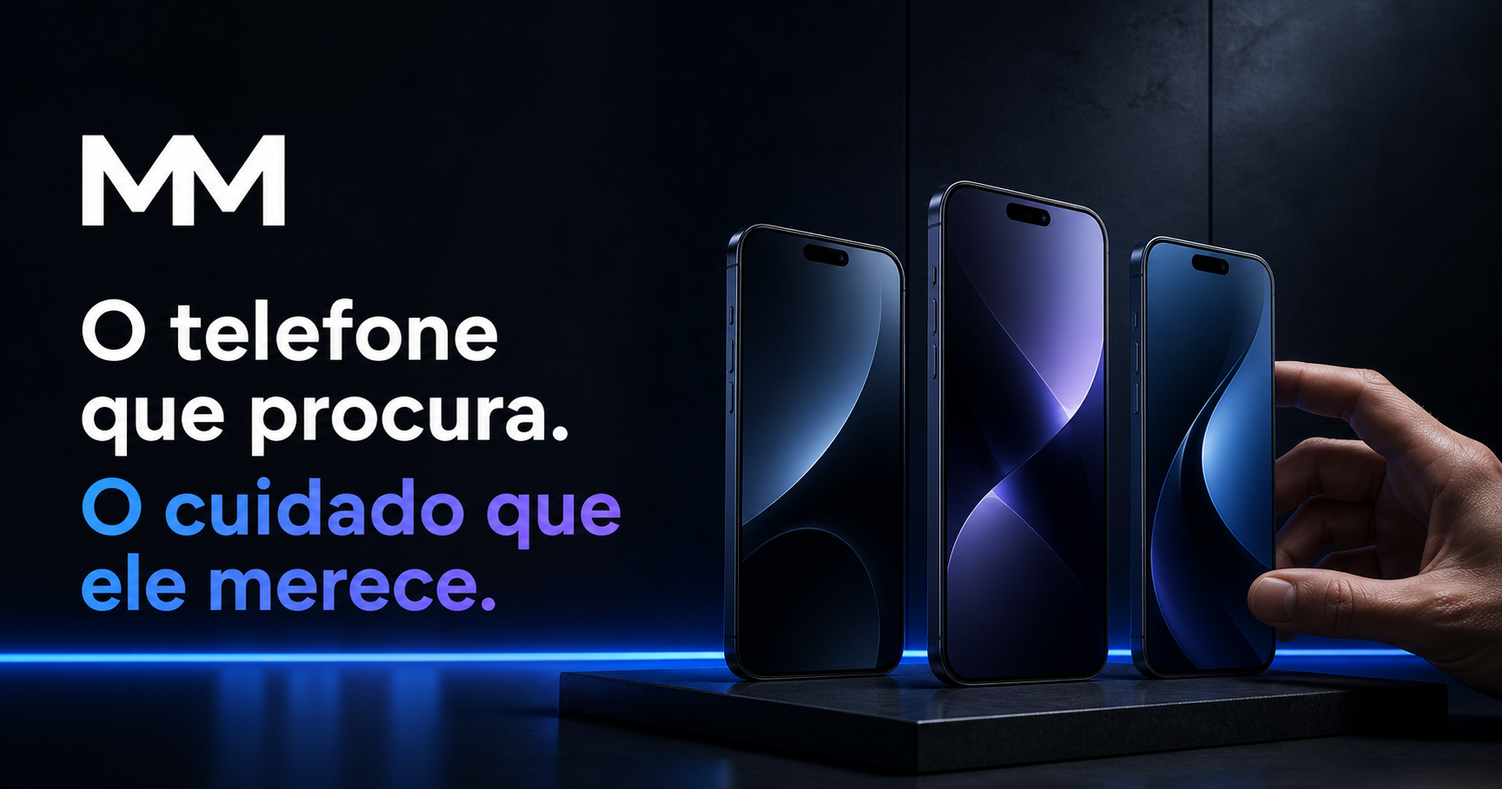
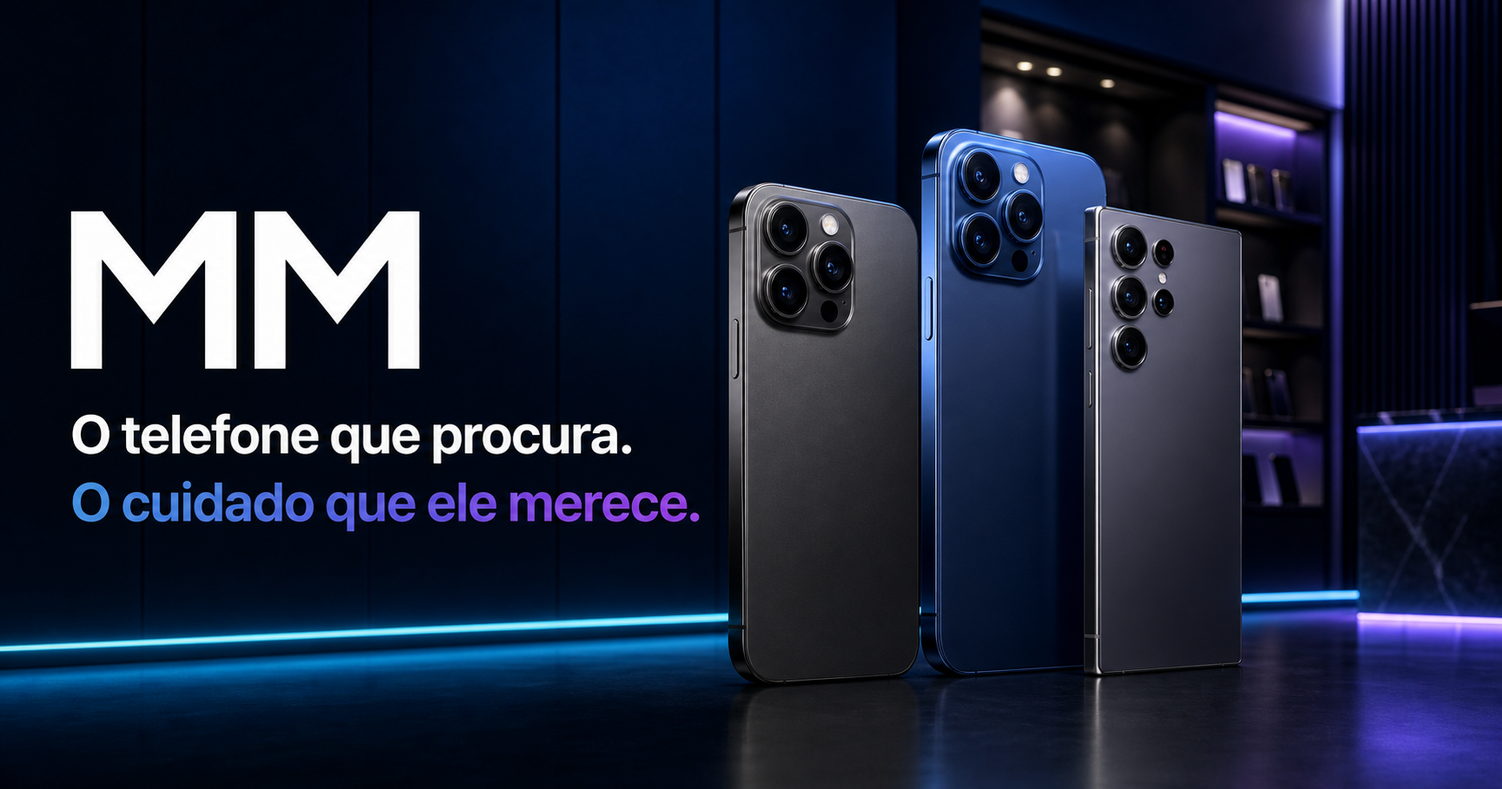
Match MM home to approved storefront reference

diff --git a/app/page.tsx b/app/page.tsx
@@ -4,101 +4,63 @@ import Link from "next/link";
 import { T, useLanguage } from "../components/LanguageProvider";
 import { phones, whatsappUrl } from "../lib/phones";
 
-const repairProblems = [
-  ["Ecrã partido", "Broken screen"],
-  ["Bateria descarrega rápido", "Battery drains quickly"],
-  ["Telefone não carrega", "Phone does not charge"],
-  ["Telefone não liga", "Phone does not turn on"],
-  ["Problemas de software", "Software issues"],
-  ["Câmara ou som", "Camera or sound"],
-  ["Outro problema", "Other issue"],
+const issues = [
+  ["▱", "Ecrã partido", "Broken screen"], ["▣", "Bateria descarrega rápido", "Battery drains quickly"],
+  ["ϟ", "Telefone não carrega", "Phone does not charge"], ["◌", "Telefone não liga", "Phone does not turn on"],
+  ["⌘", "Problemas de software", "Software issues"], ["◉", "Câmara ou som", "Camera or sound"],
+  ["•••", "Outro problema", "Other issue"],
 ];
 
-const trustReasons = [
-  ["♡", "Atendimento sem complicação", "Falamos consigo de forma clara e procuramos tornar todo o processo simples.", "Straightforward service", "We speak clearly and aim to make the whole process simple."],
-  ["◇", "Escolha com confiança", "Veja as opções disponíveis e tire dúvidas antes de decidir.", "Choose with confidence", "See the available options and ask questions before deciding."],
-  ["⌕", "Cuidado com o seu aparelho", "Primeiro entendemos o problema antes de indicar o próximo passo.", "Care for your device", "We first understand the problem before suggesting the next step."],
-  ["✆", "Estamos a uma mensagem de distância", "Fale directamente com a MM pelo WhatsApp.", "One message away", "Talk directly to MM on WhatsApp."],
+const trust = [
+  ["◯", "Atendimento sem complicação", "Falamos consigo de forma clara e procuramos tornar tudo simples.", "Straightforward service", "We speak clearly and aim to keep everything simple."],
+  ["⌕", "Avaliação antes do serviço", "Entendemos o problema antes de indicar o próximo passo.", "Assessment before service", "We understand the issue before suggesting the next step."],
+  ["◇", "Escolha com confiança", "Veja as opções disponíveis e tire dúvidas antes de decidir.", "Choose with confidence", "See available options and ask before deciding."],
+  ["✆", "Contacto directo", "Fale directamente com a MM pelo WhatsApp.", "Direct contact", "Talk directly to MM on WhatsApp."],
 ];
 
 export default function Home() {
   const { lang } = useLanguage();
   const featured = phones.slice(0, 4);
-  const heroPhone = phones[0];
-  const generalMessage = lang === "pt"
-    ? "Olá MM, encontrei-vos através do website e gostaria de obter mais informações."
-    : "Hello MM, I found you through the website and would like more information.";
 
-  return <>
-    <section className="storeHero">
-      <div className="heroBlob one"/><div className="heroBlob two"/>
-      <div className="wide storeHeroGrid">
-        <div className="storeHeroCopy">
-          <span className="shopBadge"><T pt="TECNOLOGIA MAIS PERTO DE SI" en="TECHNOLOGY CLOSER TO YOU" /></span>
-          <h1><T pt={<>O telefone que procura.<br/><em>O cuidado que ele merece.</em></>} en={<>The phone you want.<br/><em>The care it deserves.</em></>} /></h1>
-          <p><T pt="Na MM encontra telefones para diferentes necessidades e assistência para quando o seu aparelho precisar de cuidado." en="At MM you will find phones for different needs and assistance whenever your device needs care." /></p>
-          <div className="actionRow">
-            <Link className="btn blue" href="/telefones"><T pt="Quero comprar um telefone" en="I want to buy a phone" /> <span>→</span></Link>
-            <Link className="btn soft" href="/reparacao"><T pt="Preciso reparar o meu telefone" en="I need to repair my phone" /></Link>
-          </div>
-          <div className="heroAssurance"><span>✓ <T pt="Atendimento próximo" en="Personal service" /></span><span>✓ Bela Vista, Angola</span></div>
+  return <div className="referenceHome">
+    <section className="referenceHero"><div className="wide referenceHeroGrid">
+      <div className="referenceHeroCopy">
+        <span className="referenceBadge"><T pt="TECNOLOGIA MAIS PERTO DE SI" en="TECHNOLOGY CLOSER TO YOU" /></span>
+        <h1><T pt={<>O telefone que procura.<br/><em>O cuidado que ele merece.</em></>} en={<>The phone you want.<br/><em>The care it deserves.</em></>} /></h1>
+        <p><T pt={<>Venda e reparação de telefones<br/><strong>num só lugar.</strong></>} en={<>Phone sales and repair<br/><strong>in one place.</strong></>} /></p>
+        <div className="referenceProof">
+          <span><i>♡</i><b><T pt="Atendimento próximo" en="Personal service" /></b><small><T pt="Sempre ao seu lado." en="Always by your side." /></small></span>
+          <span><i>⌕</i><b><T pt="Avaliação cuidadosa" en="Careful assessment" /></b><small><T pt="Primeiro entendemos." en="We understand first." /></small></span>
+          <span><i>⌖</i><b>Bela Vista, Angola</b><small><T pt="Em frente à Pumangol." en="Opposite Pumangol." /></small></span>
         </div>
-        <div className="showcase">
-          <div className="showcaseGlow"/>
-          <div className="showPhone phoneBack"><img src={phones[1].image} alt={phones[1].model}/></div>
-          <div className="showPhone phoneMain"><img src={heroPhone.image} alt={heroPhone.model}/><span className="newTag"><T pt="EM DESTAQUE" en="FEATURED" /></span></div>
-          <div className="showPhone phoneSide"><img src={phones[2].image} alt={phones[2].model}/></div>
-          <div className="showPrice heroProductCard">
-            <small><T pt="MODELO EM DESTAQUE" en="FEATURED MODEL" /></small>
-            <b>{heroPhone.model}</b>
-            <Link href={`/telefones/${heroPhone.slug}`} aria-label={lang === "pt" ? `Consultar disponibilidade do ${heroPhone.model}` : `Check ${heroPhone.model} availability`}>
-              <span><T pt="Consultar disponibilidade" en="Check availability" /></span> ↗
-            </Link>
-          </div>
-          <div className="heroServiceRail">
-            <Link href="/telefones"><small><T pt="VENDA DE TELEFONES" en="PHONE SALES" /></small><b><T pt="Encontre o telefone certo para si." en="Find the right phone for you." /></b><span><T pt="Ver telefones" en="View phones" /> →</span></Link>
-            <Link href="/reparacao"><small><T pt="REPARAÇÃO" en="REPAIR" /></small><b><T pt="Conte-nos o que aconteceu." en="Tell us what happened." /></b><span><T pt="Pedir assistência" en="Request assistance" /> →</span></Link>
-          </div>
-        </div>
+        <div className="referenceActions"><Link href="/telefones"><T pt="Quero comprar um telefone" en="I want to buy a phone" /> →</Link><Link href="/reparacao"><T pt="Preciso reparar o meu telefone" en="I need to repair my phone" /> →</Link></div>
       </div>
-    </section>
 
-    <section className="helpToday"><div className="wide">
-      <div className="helpHeading"><span className="sectionLabel">MM</span><h2><T pt="Como podemos ajudar hoje?" en="How can we help today?" /></h2></div>
-      <div className="helpPaths">
-        <article className="buyPath"><div><small><T pt="QUERO UM TELEFONE" en="I WANT A PHONE" /></small><h3><T pt="O seu próximo telefone pode estar mais perto do que imagina." en="Your next phone may be closer than you think." /></h3><p><T pt="Descubra modelos para diferentes estilos, necessidades e orçamentos." en="Discover models for different styles, needs and budgets." /></p><Link href="/telefones"><T pt="Ver telefones" en="View phones" /> →</Link></div><img src={heroPhone.image} alt=""/></article>
-        <article className="repairPath"><div><small><T pt="PRECISO DE REPARAÇÃO" en="I NEED A REPAIR" /></small><h3><T pt="Quebrou? Fale connosco antes de desistir do seu telefone." en="Broken? Talk to us before giving up on your phone." /></h3><p><T pt="Conte-nos o que aconteceu. A MM ajuda a encontrar a melhor solução." en="Tell us what happened. MM helps you find the best solution." /></p><Link href="/reparacao"><T pt="Pedir assistência" en="Request assistance" /> →</Link></div><img src="https://images.unsplash.com/photo-1621768216002-5ac171876625?auto=format&fit=crop&w=900&q=90" alt=""/></article>
+      <div className="referencePhones" aria-label={lang === "pt" ? "Telefones em destaque" : "Featured phones"}>
+        <div className="referenceBeam"/>
+        {phones.slice(0, 3).map((phone, index) => <Link href={`/telefones/${phone.slug}`} className={`referencePhone p${index + 1}`} key={phone.slug}><img src={phone.image} alt={phone.model}/></Link>)}
       </div>
+
+      <aside className="referenceSideCards">
+        <Link href="/telefones"><div><small><T pt="Venda de telefones" en="Phone sales" /></small><p><T pt="Modelos para diferentes necessidades e orçamentos." en="Models for different needs and budgets." /></p><span><T pt="Ver telefones" en="View phones" /> →</span></div><img src={phones[0].image} alt=""/></Link>
+        <Link href="/reparacao"><div><small><T pt="Reparação de telefones" en="Phone repair" /></small><p><T pt="Conte-nos o que aconteceu ao seu aparelho." en="Tell us what happened to your device." /></p><span><T pt="Saber mais" en="Learn more" /> →</span></div><img src="https://images.unsplash.com/photo-1621768216002-5ac171876625?auto=format&fit=crop&w=700&q=85" alt=""/></Link>
+        <a href={whatsappUrl(lang === "pt" ? "Olá MM, encontrei-vos através do website e gostaria de obter mais informações." : "Hello MM, I found you through the website and would like more information.")}><div><small>WhatsApp</small><p><T pt="Fale directamente com a equipa da MM." en="Talk directly to the MM team." /></p><span><T pt="Enviar mensagem" en="Send a message" /> →</span></div><b>✆</b></a>
+      </aside>
     </div></section>
 
-    <section className="quickShop"><div className="wide">
-      <div className="quickTitle"><b><T pt="Explore por marca" en="Explore by brand" /></b><Link href="/telefones"><T pt="Ver catálogo completo" en="View full catalogue" /> →</Link></div>
-      <div className="categoryGrid brandOnly">{[
-        ["Apple", "A", "Ver iPhones", "View iPhones"], ["Samsung", "S", "Ver Galaxy", "View Galaxy"], ["Tecno", "T", "Ver modelos", "View models"], ["Infinix", "I", "Ver modelos", "View models"], ["Outros", "+", "Explorar", "Explore"],
-      ].map(([name, icon, ptAction, enAction]) => <Link href={`/telefones?marca=${name}`} key={name}><span>{icon}</span><b>{name === "Outros" ? (lang === "pt" ? "Outras marcas" : "Other brands") : name}</b><small>{lang === "pt" ? ptAction : enAction} →</small></Link>)}</div>
-    </div></section>
+    <div className="wide referenceDashboard">
+      <section className="referenceChoices">
+        <Link href="/telefones"><i>♧</i><div><small><T pt="QUERO UM TELEFONE" en="I WANT A PHONE" /></small><h2><T pt="O seu próximo telefone pode estar mais perto do que imagina." en="Your next phone may be closer than you think." /></h2><p><T pt="Descubra modelos para diferentes estilos, necessidades e orçamentos." en="Discover models for different styles, needs and budgets." /></p><span><T pt="Ver telefones" en="View phones" /> →</span></div><img src={phones[2].image} alt=""/></Link>
+        <Link href="/reparacao"><i>⌁</i><div><small><T pt="PRECISO DE REPARAÇÃO" en="I NEED A REPAIR" /></small><h2><T pt="Quebrou? Fale connosco antes de desistir do seu telefone." en="Broken? Talk to us before giving up on your phone." /></h2><p><T pt="Conte-nos o que aconteceu. A MM ajuda a identificar o próximo passo." en="Tell us what happened. MM helps identify the next step." /></p><span><T pt="Pedir assistência" en="Request assistance" /> →</span></div></Link>
+      </section>
 
-    <section className="featuredStore"><div className="wide">
-      <div className="shopSectionHead"><div><span><T pt="SELECÇÃO DA MM" en="MM SELECTION" /></span><h2><T pt="Telefones em destaque" en="Featured phones" /></h2><p><T pt="Veja alguns dos modelos apresentados pela MM." en="See some of the models presented by MM." /></p></div><Link href="/telefones"><T pt="Ver todos os telefones" en="View all phones" /> →</Link></div>
-      <div className="storeProductGrid">{featured.map((phone) => <article className="storeProduct" key={phone.slug}>
-        <Link className="storeProductImage" href={`/telefones/${phone.slug}`}><span>{phone.available ? (lang === "pt" ? "Consultar" : "Enquire") : (lang === "pt" ? "Sob consulta" : "Ask us")}</span><img src={phone.image} alt={phone.model}/></Link>
-        <div className="storeProductBody"><small>{phone.brand}</small><h3>{phone.model}</h3><div className="productMeta"><span>{phone.storage}</span><span>{phone.condition === "Novo" ? (lang === "pt" ? "Novo" : "New") : (lang === "pt" ? "Seminovo" : "Pre-owned")}</span></div><strong>{lang === "pt" ? phone.price : "Ask for price"}</strong><div className="storeActions"><Link href={`/telefones/${phone.slug}`}><T pt="Ver detalhes" en="View details" /></Link><a href={whatsappUrl(lang === "pt" ? `Olá MM, vi o ${phone.model} no website e gostaria de saber mais informações.` : `Hello MM, I saw the ${phone.model} on the website and would like more information.`)}>WhatsApp ↗</a></div></div>
-      </article>)}</div>
-    </div></section>
+      <section className="referenceBrands"><header><b><T pt="PROCURE POR MARCA" en="SHOP BY BRAND" /></b><Link href="/telefones"><T pt="Ver catálogo completo" en="View full catalogue" /> →</Link></header><div>{[["Apple","A","Ver iPhones","View iPhones"],["Samsung","S","Ver Galaxy","View Galaxy"],["Tecno","T","Ver modelos","View models"],["Infinix","I","Ver modelos","View models"],["Outros","•••","Explorar","Explore"]].map(([brand,icon,pt,en]) => <Link href={`/telefones?marca=${brand}`} key={brand}><strong>{icon}</strong><b>{brand === "Outros" ? (lang === "pt" ? "Mais marcas" : "More brands") : brand}</b><small>{lang === "pt" ? pt : en} →</small></Link>)}</div></section>
 
-    <section className="repairShop"><div className="wide repairShopGrid">
-      <div className="repairPhoto"><img src="https://images.unsplash.com/photo-1621768216002-5ac171876625?auto=format&fit=crop&w=1200&q=90" alt=""/><div className="repairPhotoBadge"><span>✓</span><div><small><T pt="PRIMEIRO PASSO" en="FIRST STEP" /></small><b><T pt="Compreender o problema" en="Understand the problem" /></b></div></div></div>
-      <div className="repairShopCopy"><span className="sectionLabel"><T pt="REPARAÇÃO DE TELEFONES" en="PHONE REPAIR" /></span><h2><T pt={<>Um problema no telefone não precisa<br/><em>parar o seu dia.</em></>} en={<>A phone problem does not have to<br/><em>stop your day.</em></>} /></h2><p><T pt="Conte-nos o que aconteceu e ajudamos a identificar o próximo passo." en="Tell us what happened and we will help identify the next step." /></p>
-        <div className="repairChips repairIssueLinks">{repairProblems.map(([pt, en]) => <Link key={pt} href={`/reparacao?problema=${encodeURIComponent(pt)}`}>{lang === "pt" ? pt : en} <span>→</span></Link>)}</div>
-        <Link className="btn blue" href="/reparacao"><T pt="Quero reparar o meu telefone" en="I want to repair my phone" /> →</Link>
-      </div>
-    </div></section>
+      <section className="referenceProducts"><header><div><small><T pt="TELEFONES EM DESTAQUE" en="FEATURED PHONES" /></small><h2><T pt="Modelos apresentados pela MM." en="Models presented by MM." /></h2></div><Link href="/telefones"><T pt="Ver todos os telefones" en="View all phones" /> →</Link></header><div>{featured.map((phone) => <article key={phone.slug}><Link href={`/telefones/${phone.slug}`} className="referenceProductImage"><span>{phone.condition === "Novo" ? (lang === "pt" ? "NOVO" : "NEW") : (lang === "pt" ? "SEMINOVO" : "PRE-OWNED")}</span><img src={phone.image} alt={phone.model}/></Link><div><small>{phone.brand}</small><h3>{phone.model}</h3><p>{phone.storage}</p><b>{lang === "pt" ? phone.price : "Ask for price"}</b><Link href={`/telefones/${phone.slug}`}><T pt="Ver detalhes" en="View details" /> →</Link></div></article>)}</div></section>
 
-    <section className="trustShop"><div className="wide">
-      <div className="shopSectionHead"><div><span>MM</span><h2><T pt="Por que escolher a MM?" en="Why choose MM?" /></h2></div></div>
-      <div className="trustCards detailedTrust">{trustReasons.map((reason) => <div key={reason[1]}><span>{reason[0]}</span><b>{lang === "pt" ? reason[1] : reason[3]}</b><p>{lang === "pt" ? reason[2] : reason[4]}</p></div>)}</div>
-    </div></section>
+      <section className="referenceRepair"><div><small><T pt="CUIDADO TÉCNICO" en="TECHNICAL CARE" /></small><h2><T pt={<>Um problema no telefone<br/><em>não precisa parar o seu dia.</em></>} en={<>A phone problem<br/><em>does not have to stop your day.</em></>} /></h2><p><T pt="Conte-nos o que aconteceu e ajudamos a identificar o próximo passo." en="Tell us what happened and we will help identify the next step." /></p><Link href="/reparacao"><T pt="Quero reparar o meu telefone" en="I want to repair my phone" /> →</Link></div><div className="referenceIssues">{issues.map(([icon,pt,en]) => <Link key={pt} href={`/reparacao?problema=${encodeURIComponent(pt)}`}><i>{icon}</i><span>{lang === "pt" ? pt : en}</span></Link>)}</div></section>
 
-    <section className="homeFinalCta"><div className="wide"><div><small>MM</small><h2><T pt="Ainda tem uma dúvida? Fale directamente com a MM." en="Still have a question? Talk directly to MM." /></h2><p><T pt="Estamos disponíveis para ajudar com telefones, disponibilidade e reparações." en="We are available to help with phones, availability and repairs." /></p></div><a className="btn blue" href={whatsappUrl(generalMessage)}><T pt="Falar no WhatsApp" en="Talk on WhatsApp" /> ↗</a></div></section>
-  </>;
+      <section className="referenceTrust">{trust.map((item) => <article key={item[1]}><i>{item[0]}</i><div><b>{lang === "pt" ? item[1] : item[3]}</b><p>{lang === "pt" ? item[2] : item[4]}</p></div></article>)}</section>
+    </div>
+  </div>;
 }

diff --git a/app/globals.css b/app/globals.css
@@ -29,3 +29,8 @@
 @media(max-width:1100px){.heroServiceRail{display:none}.phoneMain{left:48%}.phoneBack{left:25%}.phoneSide{right:3%}}
 @media(max-width:640px){.storeHero{min-height:auto}.storeHeroGrid{padding-bottom:20px}.storeHeroCopy h1{font-size:40px}.showcase{height:370px}.showPrice{left:auto;right:0}.helpToday{padding-top:24px}.repairShopGrid{padding:12px}.featuredStore .storeProductImage{height:300px}.homeFinalCta>.wide{padding:24px 18px}}
 .repairIssueLinks a>span{background:none;border:0;padding:0;color:#79a1ff}
+/* Faithful reference composition */
+.referenceHome{background:#04131f;color:#f7f9ff;min-height:100vh;padding-bottom:28px}.referenceHero{position:relative;overflow:hidden;background:radial-gradient(circle at 57% 46%,rgba(53,98,151,.4),transparent 30%),linear-gradient(110deg,#071724,#102638 60%,#071622);border-bottom:1px solid rgba(105,151,190,.28)}.referenceHero:before{content:"";position:absolute;inset:0;background-image:linear-gradient(rgba(124,160,193,.06) 1px,transparent 1px),linear-gradient(90deg,rgba(124,160,193,.055) 1px,transparent 1px);background-size:44px 44px;mask-image:linear-gradient(90deg,#000,transparent 75%)}.referenceHero:after{content:"";position:absolute;left:37%;right:18%;bottom:0;height:2px;background:linear-gradient(90deg,transparent,#2bd9ff,#5e57ff,transparent);box-shadow:0 0 25px #24c5ff}.referenceHeroGrid{height:440px;display:grid;grid-template-columns:38% 36% 26%;position:relative;z-index:1}.referenceHeroCopy{padding:26px 22px 22px 8px;display:flex;flex-direction:column;justify-content:center}.referenceBadge{align-self:flex-start;border:1px solid rgba(108,148,181,.42);border-radius:99px;padding:7px 12px;color:#6c9cff;font:700 7px var(--font-mono);letter-spacing:1.2px}.referenceHeroCopy h1{font-size:39px;line-height:1.08;letter-spacing:-.045em;margin:13px 0 10px}.referenceHeroCopy h1 em{font-style:normal;background:linear-gradient(90deg,#4a7dff,#a34ff0);background-clip:text;-webkit-background-clip:text;color:transparent}.referenceHeroCopy>p{font-size:13px;line-height:1.55;color:#d3dce5;margin:0}.referenceHeroCopy>p strong{font-weight:700;color:#6f94ff}.referenceProof{display:grid;grid-template-columns:repeat(3,1fr);margin:15px 0;gap:5px}.referenceProof>span{display:grid;grid-template-columns:31px 1fr;grid-template-rows:auto auto;border-right:1px solid rgba(120,154,182,.25);padding-right:6px}.referenceProof>span:last-child{border:0}.referenceProof i{grid-row:1/3;width:27px;height:27px;border:1px solid #4168cd;border-radius:50%;display:grid;place-items:center;color:#7199ff;font-style:normal}.referenceProof b{font-size:7px;white-space:nowrap}.referenceProof small{font-size:6px;color:#9dafbf;white-space:nowrap}.referenceActions{display:flex;gap:9px}.referenceActions a{min-height:42px;border:1px solid #8495a5;border-radius:8px;padding:0 15px;display:flex;align-items:center;justify-content:space-between;gap:18px;font-size:8px;font-weight:750;flex:1}.referenceActions a:first-child{border:0;background:linear-gradient(100deg,#145fe9,#6627ed);box-shadow:0 10px 24px rgba(35,65,230,.25)}.referencePhones{position:relative;overflow:visible}.referenceBeam{position:absolute;left:0;right:0;bottom:0;height:2px;background:#35cbff;box-shadow:0 -3px 20px 4px rgba(36,190,255,.7)}.referencePhone{position:absolute;bottom:9px;border-radius:24px;overflow:hidden;background:#111f2b;border:1px solid rgba(161,190,213,.3);box-shadow:0 24px 45px rgba(0,0,0,.48)}.referencePhone img{width:100%;height:100%;object-fit:cover}.referencePhone.p1{width:150px;height:330px;left:5%;transform:rotate(-5deg);z-index:1}.referencePhone.p2{width:158px;height:350px;left:32%;z-index:3}.referencePhone.p3{width:150px;height:330px;right:4%;transform:rotate(4deg);z-index:2}.referenceSideCards{display:grid;gap:8px;padding:10px 0 10px 14px}.referenceSideCards>a{position:relative;overflow:hidden;border:1px solid rgba(132,167,195,.35);border-radius:12px;background:linear-gradient(135deg,rgba(20,47,68,.95),rgba(8,24,37,.95));display:grid;grid-template-columns:58% 42%;min-height:0}.referenceSideCards>a>div{padding:13px;position:relative;z-index:2}.referenceSideCards img{width:100%;height:100%;object-fit:cover;mask-image:linear-gradient(90deg,transparent,#000 38%)}.referenceSideCards small{font-size:9px;font-weight:750}.referenceSideCards p{font-size:7px;line-height:1.5;color:#c2ced9;margin:6px 0}.referenceSideCards span{font-size:7px;color:#7ea1ff}.referenceSideCards>a:last-child{grid-template-columns:1fr 50px}.referenceSideCards>a:last-child b{display:grid;place-items:center;font-size:24px;color:#68df91}
+.referenceDashboard{display:grid;grid-template-columns:1.08fr 1fr;gap:10px;padding-top:10px}.referenceChoices{display:grid;grid-template-columns:1fr 1fr;gap:9px}.referenceChoices>a{height:142px;border:1px solid rgba(127,162,190,.3);border-radius:12px;background:linear-gradient(135deg,#10283a,#091b29);position:relative;overflow:hidden;padding:18px;display:grid;grid-template-columns:40px 1fr;gap:11px}.referenceChoices>a>i{width:36px;height:36px;border-radius:50%;display:grid;place-items:center;background:#294ef0;color:white;font-style:normal;font-size:18px}.referenceChoices>a:nth-child(2)>i{background:#188b4b}.referenceChoices>a>div{position:relative;z-index:2}.referenceChoices small,.referenceProducts header small,.referenceRepair>div>small{font:700 7px var(--font-mono);letter-spacing:1px;color:#7e9fff}.referenceChoices>a:nth-child(2) small,.referenceChoices>a:nth-child(2) span{color:#63df8b}.referenceChoices h2{font-size:10px;line-height:1.45;margin:6px 0;color:white}.referenceChoices p{font-size:7px;line-height:1.45;color:#b8c5d0;margin:0 0 8px}.referenceChoices span{font-size:7px;color:#7fa2ff}.referenceChoices img{position:absolute;right:-18px;bottom:-25px;width:115px;height:150px;object-fit:cover;border-radius:18px;transform:rotate(8deg);opacity:.78}.referenceBrands{border:1px solid rgba(127,162,190,.3);border-radius:12px;background:#0a1d2b;padding:13px;grid-column:2}.referenceBrands header,.referenceProducts header{display:flex;align-items:center;justify-content:space-between}.referenceBrands header b{font-size:8px}.referenceBrands header>a,.referenceProducts header>a{font-size:7px;color:#7d9eff}.referenceBrands>div{display:grid;grid-template-columns:repeat(5,1fr);gap:5px;margin-top:10px}.referenceBrands>div>a{height:95px;border:1px solid rgba(130,165,193,.3);border-radius:7px;display:flex;flex-direction:column;align-items:center;justify-content:center;text-align:center}.referenceBrands strong{font-size:14px;color:#eef4fa}.referenceBrands b{font-size:7px;margin:8px 0}.referenceBrands small{font-size:6px;color:#749cff}.referenceProducts{grid-column:1;padding:4px}.referenceProducts header{margin-bottom:8px}.referenceProducts header h2{font-size:14px;margin:5px 0}.referenceProducts>div{display:grid;grid-template-columns:repeat(4,1fr);gap:7px}.referenceProducts article{height:170px;border:1px solid rgba(130,165,193,.32);border-radius:9px;background:linear-gradient(150deg,#102739,#091b29);overflow:hidden;display:grid;grid-template-columns:44% 56%}.referenceProductImage{position:relative;overflow:hidden}.referenceProductImage img{width:100%;height:100%;object-fit:cover}.referenceProductImage span{position:absolute;top:8px;left:7px;z-index:2;background:#3158ed;color:white;border-radius:3px;padding:3px 5px;font-size:5px}.referenceProducts article>div{padding:22px 7px 8px}.referenceProducts article>div>small{font-size:6px;color:#aab7c2}.referenceProducts h3{font-size:9px;line-height:1.2;margin:4px 0}.referenceProducts article p{font-size:6px;color:#a9b7c4}.referenceProducts article b{display:block;font-size:7px;margin:12px 0}.referenceProducts article>div>a{font-size:6px;color:#759cff}.referenceRepair{grid-column:2;border:1px solid rgba(130,165,193,.3);border-radius:12px;background:linear-gradient(135deg,#10283b,#091c2a);padding:15px;display:grid;grid-template-columns:.85fr 1.15fr;gap:12px}.referenceRepair h2{font-size:17px;line-height:1.3;margin:6px 0}.referenceRepair h2 em{font-style:normal;color:#5e80ff}.referenceRepair p{font-size:7px;color:#b6c3ce;line-height:1.55}.referenceRepair>div>a{display:inline-flex;background:linear-gradient(100deg,#1660ed,#6529ed);padding:10px 13px;border-radius:7px;font-size:7px;font-weight:750}.referenceIssues{display:grid;grid-template-columns:repeat(3,1fr);gap:5px}.referenceIssues>a{min-height:43px;border:1px solid rgba(128,163,192,.3);border-radius:6px;padding:6px;display:flex;align-items:center;gap:6px}.referenceIssues i{font-style:normal;color:#6895ff;font-size:14px}.referenceIssues span{font-size:6px;line-height:1.2}.referenceIssues>a:last-child{grid-column:1/3}.referenceTrust{grid-column:1/-1;border:1px solid rgba(130,165,193,.3);border-radius:12px;background:linear-gradient(135deg,#102536,#091b29);display:grid;grid-template-columns:repeat(4,1fr);padding:12px 17px}.referenceTrust article{display:flex;align-items:center;gap:12px;border-right:1px solid rgba(130,164,190,.22);padding:0 14px}.referenceTrust article:last-child{border:0}.referenceTrust i{width:34px;height:34px;border:1px solid #66798a;border-radius:50%;display:grid;place-items:center;font-style:normal;font-size:16px}.referenceTrust b{font-size:8px}.referenceTrust p{font-size:6px;color:#b1bfca;line-height:1.45;margin:4px 0 0}
+@media(max-width:1100px){.referenceHeroGrid{grid-template-columns:44% 56%;height:480px}.referenceSideCards{display:none}.referenceDashboard{grid-template-columns:1fr}.referenceBrands,.referenceProducts,.referenceRepair{grid-column:1}.referenceProducts article{height:190px}}
+@media(max-width:700px){.referenceHeroGrid{display:block;height:auto}.referenceHeroCopy{padding:38px 0 20px;text-align:center}.referenceBadge{align-self:center}.referenceHeroCopy h1{font-size:39px}.referenceProof{gap:8px}.referenceProof>span{display:flex;flex-direction:column;align-items:center;border:0}.referenceProof i{margin-bottom:5px}.referenceActions{flex-direction:column}.referencePhones{height:350px}.referencePhone.p1{left:8%;width:125px;height:280px}.referencePhone.p2{left:32%;width:135px;height:310px}.referencePhone.p3{right:5%;width:125px;height:280px}.referenceDashboard{width:min(100% - 20px,1240px)}.referenceChoices{grid-template-columns:1fr}.referenceChoices>a{height:155px}.referenceBrands>div{grid-template-columns:repeat(3,1fr)}.referenceBrands>div>a{height:88px}.referenceProducts>div{grid-template-columns:1fr 1fr}.referenceProducts article{height:175px}.referenceRepair{grid-template-columns:1fr}.referenceIssues{grid-template-columns:1fr 1fr}.referenceIssues>a:last-child{grid-column:1/-1}.referenceTrust{grid-template-columns:1fr 1fr;gap:12px}.referenceTrust article{border:0;padding:0}.referenceHome{padding-bottom:14px}}
